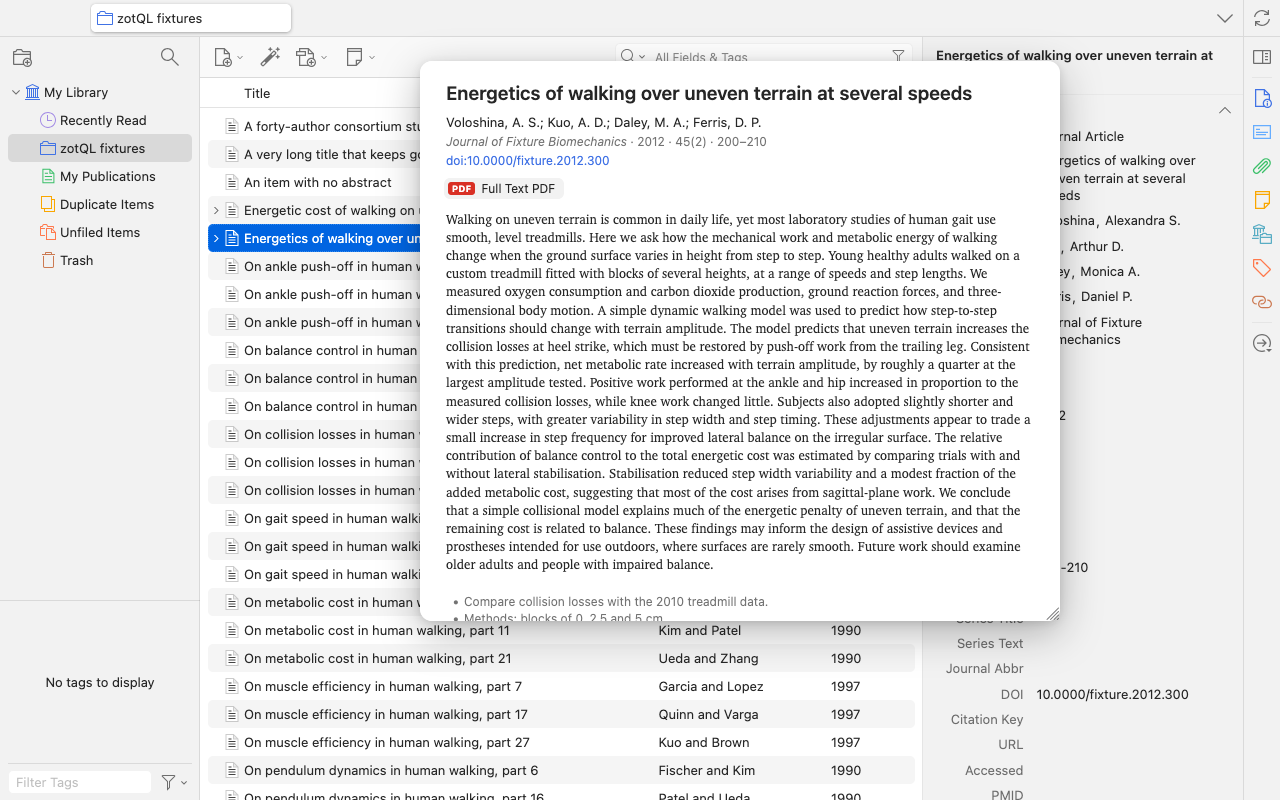
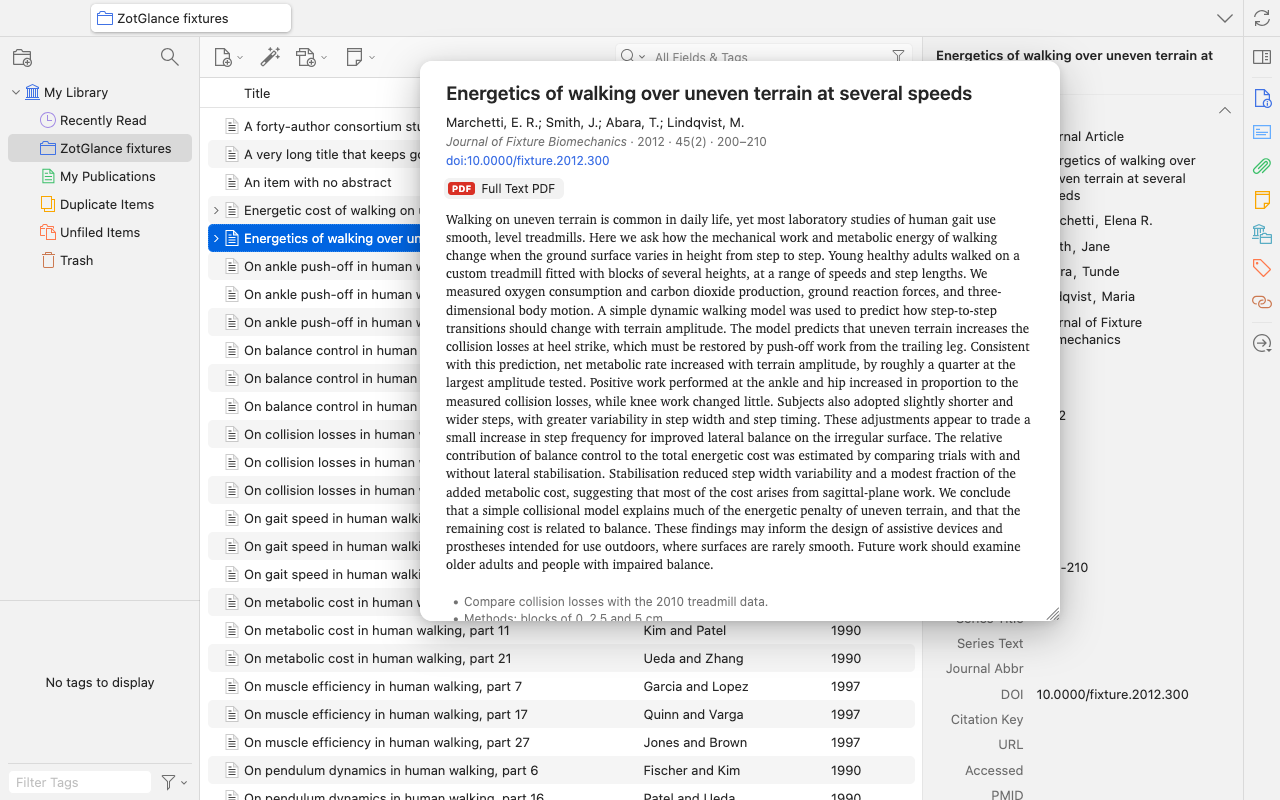
README edits, "At a Glance" card name, new screenshots
- README: the user's rewrite plus proofreading fixes; a "Keys and help"
  section; Zotero 10 requirement moved to Install; Prettier formatting.
- The card is called "At a Glance card" in the help card and Settings.
- Dev seed scripts use invented author names and a "ZotGlance fixtures"
  collection; docs/*.png retaken from it.

diff --git a/scripts/dev/seed.js b/scripts/dev/seed.js
@@ -1,10 +1,10 @@
 // Seed the DEV library with fixture items. Run with:
 //   scripts/zq-eval.sh < scripts/dev/seed.js
-// Idempotent: does nothing if the "zotQL fixtures" collection exists.
+// Idempotent: does nothing if the "ZotGlance fixtures" collection exists.
 // All content is invented test data.
 
 const LIB = Zotero.Libraries.userLibraryID;
-const COLL = "zotQL fixtures";
+const COLL = "ZotGlance fixtures";
 const existing = Zotero.Collections.getByLibrary(LIB).find(
   (c) => c.name === COLL,
 );
@@ -56,7 +56,7 @@ const ja = await make(
     url: "https://example.org/fixture/2010-001",
     abstractNote: lorem.repeat(6),
   },
-  [au("Kuo", "Arthur D."), au("Donelan", "J. Maxwell"), au("Smith", "Jane")],
+  [au("Smith", "Jane"), au("Okonkwo", "Daniel"), au("Lindqvist", "Maria")],
   {
     notes: [
       "<h1>Key result</h1><p>Uneven terrain costs about 28% more.</p>",
@@ -69,13 +69,13 @@ const ja = await make(
 made.push(ja.id);
 
 // 1b. A small PDF attachment and a link attachment on the journal article.
-const pdfPath = PathUtils.join(PathUtils.tempDir, "zotql-fixture.pdf");
+const pdfPath = PathUtils.join(PathUtils.tempDir, "zotglance-fixture.pdf");
 const pdf =
   "%PDF-1.4\n1 0 obj<</Type/Catalog/Pages 2 0 R>>endobj\n" +
   "2 0 obj<</Type/Pages/Kids[3 0 R]/Count 1>>endobj\n" +
   "3 0 obj<</Type/Page/Parent 2 0 R/MediaBox[0 0 612 792]/Contents 4 0 R" +
   "/Resources<</Font<</F1 5 0 R>>>>>>endobj\n" +
-  "4 0 obj<</Length 44>>stream\nBT /F1 24 Tf 72 700 Td (zotQL fixture) Tj ET\nendstream endobj\n" +
+  "4 0 obj<</Length 44>>stream\nBT /F1 24 Tf 72 700 Td (ZotGlance fixture) Tj ET\nendstream endobj\n" +
   "5 0 obj<</Type/Font/Subtype/Type1/BaseFont/Helvetica>>endobj\n" +
   "trailer<</Root 1 0 R>>\n%%EOF\n";
 await IOUtils.writeUTF8(pdfPath, pdf);
@@ -120,7 +120,7 @@ made.push(
         date: "2005",
         abstractNote: lorem.repeat(2),
       },
-      [au("Alexander", "R. McNeill")],
+      [au("Hartmann", "Paul")],
     )
   ).id,
 );
@@ -137,7 +137,7 @@ made.push(
         date: "2018",
         abstractNote: lorem.repeat(3),
       },
-      [au("Osman", "Kim")],
+      [au("Ferreira", "Lucas")],
     )
   ).id,
 );
@@ -155,7 +155,7 @@ made.push(
         DOI: "10.0000/fixture.preprint.1",
         abstractNote: lorem,
       },
-      [au("Seethapathi", "Nidhi"), au("Kuo", "Arthur D.")],
+      [au("Moreau", "Camille"), au("Smith", "Jane")],
     )
   ).id,
 );
@@ -226,10 +226,24 @@ const surnames = [
   "Xu",
   "Young",
   "Zhang",
-  "Kuo",
+  "Jones",
   "Smith",
   "Smithson",
   "Kumar",
+];
+const initials = [
+  "A.",
+  "B. K.",
+  "C.",
+  "D. M.",
+  "E.",
+  "F. R.",
+  "G.",
+  "H. L.",
+  "J.",
+  "K. S.",
+  "L.",
+  "M. T.",
 ];
 const topics = [
   "metabolic cost",
@@ -255,7 +269,13 @@ for (let i = 0; i < surnames.length; i++) {
           date: year,
           abstractNote: i % 3 ? lorem : "",
         },
-        [au(surnames[i], "X."), au(surnames[(i + 5) % surnames.length], "Y.")],
+        [
+          au(surnames[i], initials[i % initials.length]),
+          au(
+            surnames[(i + 5) % surnames.length],
+            initials[(i + 3) % initials.length],
+          ),
+        ],
       )
     ).id,
   );

diff --git a/scripts/dev/abstract300.js b/scripts/dev/abstract300.js
@@ -1,5 +1,5 @@
 // Adds a journal article with a 300-word abstract (invented text) to the
-// "zotQL fixtures" collection, to check that an average abstract fits the
+// "ZotGlance fixtures" collection, to check that an average abstract fits the
 // card. Run after seed.js: scripts/zq-eval.sh < scripts/dev/abstract300.js
 const sentences = [
   "Walking on uneven terrain is common in daily life, yet most laboratory studies of human gait use smooth, level treadmills.",
@@ -30,7 +30,7 @@ const text = words
   .replace(/[,;:.]*$/, ".");
 const LIB = Zotero.Libraries.userLibraryID;
 const coll = Zotero.Collections.getByLibrary(LIB).find(
-  (c) => c.name === "zotQL fixtures",
+  (c) => c.name === "ZotGlance fixtures",
 );
 let item = (await Zotero.Items.getAll(LIB)).find(
   (it) =>
@@ -53,10 +53,10 @@ if (!item) {
   item.setField("pages", "200-210");
   item.setField("DOI", "10.0000/fixture.2012.300");
   item.setCreators([
-    { lastName: "Voloshina", firstName: "Alexandra S.", creatorType: "author" },
-    { lastName: "Kuo", firstName: "Arthur D.", creatorType: "author" },
-    { lastName: "Daley", firstName: "Monica A.", creatorType: "author" },
-    { lastName: "Ferris", firstName: "Daniel P.", creatorType: "author" },
+    { lastName: "Marchetti", firstName: "Elena R.", creatorType: "author" },
+    { lastName: "Smith", firstName: "Jane", creatorType: "author" },
+    { lastName: "Abara", firstName: "Tunde", creatorType: "author" },
+    { lastName: "Lindqvist", firstName: "Maria", creatorType: "author" },
   ]);
   item.setField("abstractNote", text);
   item.addToCollection(coll.id);

diff --git a/src/modules/quickLook.ts b/src/modules/quickLook.ts
@@ -327,7 +327,7 @@ export class QuickLook {
     root.id = ROOT_ID;
     root.hidden = true;
     root.setAttribute("role", "dialog");
-    root.setAttribute("aria-label", "Quick Look");
+    root.setAttribute("aria-label", "At a Glance");
     // Keep keyboard focus in the items list when the card is clicked.
     // Except on the resize grip: preventDefault would stop the drag.
     root.addEventListener("mousedown", (e: MouseEvent) => {

diff --git a/src/modules/helpCard.ts b/src/modules/helpCard.ts
@@ -98,7 +98,7 @@ export class HelpCard {
     const grid = this.el("div", "zotglance-help-rows");
     root.appendChild(grid);
 
-    this.section(grid, "Quick Look card", [
+    this.section(grid, "At a Glance card", [
       ["Space", "open or close the card"],
       [cmdY ? "⌥Space  ⌘Y" : "⌥Space", "open or close it, even while typing"],
       ["↑  ↓", "move through the list; the card follows"],

diff --git a/PLAN.md b/PLAN.md
@@ -2,8 +2,8 @@
 
 A Zotero plugin that changes how the **items list behaves when it has keyboard focus**. It is not a search tool. It adds no search box or results window and doesn't touch Zotero's search bar. It only changes what keys do while you're in the list:
 
-1. **Quick Look card.** Press Space on the highlighted item to get a floating card centred over the panes. It shows the title, authors, journal, year and DOI, then the abstract in readable type, then clickable attachment icons and the first line of each child note. The card follows ↑/↓ and closes on Space, Esc or a click outside.
-2. **Better type-to-select** (phase 2). This replaces Zotero's built-in “type letters to jump to a row” in the list. Today that only matches the sorted column. The new version jumps to the next row where any matched column (by default the ones currently shown, usually title, creator and year; you can choose others in settings) matches what you typed, whatever the sort. The list itself is not filtered. A small indicator shows what you've typed, and while it's visible Space is a text space.
+1.  **Quick Look card.** Press Space on the highlighted item to get a floating card centred over the panes. It shows the title, authors, journal, year and DOI, then the abstract in readable type, then clickable attachment icons and the first line of each child note. The card follows ↑/↓ and closes on Space, Esc or a click outside.
+2.  **Better type-to-select** (phase 2). This replaces Zotero's built-in “type letters to jump to a row” in the list. Today that only matches the sorted column. The new version jumps to the next row where any matched column (by default the ones currently shown, usually title, creator and year; you can choose others in settings) matches what you typed, whatever the sort. The list itself is not filtered. A small indicator shows what you've typed, and while it's visible Space is a text space.
 
 Target: **Zotero 10.0.9** (installed), macOS first. The plugin will be open source (AGPL-3.0) on GitHub and submitted to Zotero's plugin list. The design follows the claude.ai chat this came from.
 
@@ -81,7 +81,7 @@ The listener is attached in capture phase to the main window's items tree (`#zot
 | ⌘↓              | pass through                        | open the first attachment (PDF first) in the reader, close the card | —                               |
 | ⌘G / ⇧⌘G        | —                                   | —                                                                   | next / previous match           |
 | letters, digits | built-in (phase 1) / ours (phase 2) | same, card follows                                                  | add to the typed text           |
-| + − ← →         | pass through                        | pass through                                                        | end typing, pass through        |
+| \+ − ← →        | pass through                        | pass through                                                        | end typing, pass through        |
 
 ⌥Space: check both `e.code === "Space"` and `e.altKey`, because on macOS `e.key` comes through as a non-breaking space (`" "`).
 
@@ -115,15 +115,21 @@ The listener is attached in capture phase to the main window's items tree (`#zot
 - **Which columns are matched:** by default the columns currently shown in the items list, read from the items tree's visible column list. A setting can replace that with a fixed set of columns.
   - Columns are matched by their **displayed text** (`itemsView.getCellText(i, column)`), split into words. So Year matches “2010” and Citation Key matches if that column is shown.
   - **Creator is the exception.** The column shows “Kuo et al.”, which would hide co-authors, so Creator matches every author's surname from `item.getCreators()`.
+
 - On the first keystroke, build an index of the **visible rows only**: `itemsView.rowCount` and `itemsView.getRow(i).ref`. For each row store a lowercase word list from the matched columns. Cache it per view. Invalidate the cache when the items view refreshes or `Zotero.Notifier` reports item changes. Measure the build time on your largest collection. If it's too slow, index lazily from the focused row.
+
 - **Matching:** split the typed text on spaces. Every token must be a **prefix of some word** in the row, so “kuo 2010” matches both. Move the selection to the next matching row below the focused one, wrapping at the end. Nothing is hidden or filtered.
+
 - **Tiered matching, so a space isn't required where letters meet digits.** Search the whole list with tier 1; fall back to tier 2 only if tier 1 matches no row. Stricter tiers win, so a looser reading never takes the jump from an exact one.
-  1. **As typed:** tokens split on spaces only. “h2o” still matches the title word “H2O”.
-  2. **Letter/digit split:** each token is also split where a letter meets a digit. “jones2006” becomes “jones” + “2006”, matching Jones in Creator and 2006 in Year. “kuo2010walk” becomes “kuo” + “2010” + “walk”.
+  1.  **As typed:** tokens split on spaces only. “h2o” still matches the title word “H2O”.
+  2.  **Letter/digit split:** each token is also split where a letter meets a digit. “jones2006” becomes “jones” + “2006”, matching Jones in Creator and 2006 in Year. “kuo2010walk” becomes “kuo” + “2010” + “walk”.
   - No general “any split” tier (“kuowalk” → “kuo” + “walk”). It was considered and left out because short pieces match almost every row. Revisit only if real use asks for it.
   - ⌘G and ⇧⌘G use the same tier that found the current match, so cycling stays consistent.
+
 - **Indicator:** a small pill at the bottom of the items pane reading `kuo 20▌`, plus a match count if it's cheap to compute. It hides 1.5 s after the last keystroke (a pref), or at once on Esc, Return or an arrow key.
+
 - Stop letters reaching the built-in `_handleTyping`, so the old and new type-to-select never run together. Ideally the plugin calls `stopPropagation()` on every printable key while the items tree has focus.
+
 - **Failure case to accept:** you type “smith”, pause past the timeout, then press Space meaning “smith j”, and the card opens instead. The visible indicator and the longer 1.5 s timeout make this rare, and pressing Space again closes the card.
 
 ### Prefs (phase 3, in a Settings pane)
@@ -143,10 +149,10 @@ Phase 2 type-to-select on/off (fall back to the built-in one), which columns to 
 
 **M1 — spike: confirm the four assumptions before building UI**
 
-1. A capture-phase listener on the items tree sees Space before the React handler, and `preventDefault` plus `stopPropagation` stop the built-in selection toggle.
-2. The right selection-changed hook in Zotero 10.
-3. An absolutely positioned overlay in the main window sits above the items and item panes, doesn't take focus, and is ignored by OmniWM.
-4. Spotlight's resolved default shortcuts use neither Space nor ⌘Y.
+1.  A capture-phase listener on the items tree sees Space before the React handler, and `preventDefault` plus `stopPropagation` stop the built-in selection toggle.
+2.  The right selection-changed hook in Zotero 10.
+3.  An absolutely positioned overlay in the main window sits above the items and item panes, doesn't take focus, and is ignored by OmniWM.
+4.  Spotlight's resolved default shortcuts use neither Space nor ⌘Y.
 
 The result is a throwaway “Space logs the focused item title” build. Record what you find in `NOTES.md`.
 

diff --git a/README.md b/README.md
@@ -1,21 +1,15 @@
 # ZotGlance
 
-A Zotero plugin that makes the items list nicer to use from the keyboard.
+A Zotero plugin for keyboard users: press Space for an at-a-glance card of an item's title, authors, journal and abstract, or type to jump to any item.
 
-- **Quick Look:** press **Space** on an item to see its details in a card over the list, much as Space shows a preview in macOS Finder. Press Space again (or Esc) to close it.
-- **Better type-to-select:** start typing to jump to an item. ZotGlance matches every column shown in the list, and every author, not just the column the list is sorted by. Type `kuo 2010`, or just `kuo2010`, to jump to Kuo's 2010 paper.
+- **At a Glance:** press **Space** on an item to see its main details in a card over the list, much as Space shows a preview in macOS Finder. Press Space again (or Esc) to close it.
+- **Better type-to-select:** start typing to jump to an item. ZotGlance matches every column shown in the list, and every author, not just the column the list is sorted by. Type `smith 2010`, or just `smith2010`, to jump to Smith's 2010 paper.
 
-Press **?** in the items list for a card listing all the keys.
+![The At a Glance card open over the items list](docs/card.png)
 
-![The ? help card](docs/help.png)
+![Better type-to-select: "smith 20" jumps to Smith's 2010 paper](docs/type-to-select.png)
 
-ZotGlance only changes how keys behave while the items list has focus. It doesn't filter or search your library, and it never changes your items.
-
-Requires **Zotero 10**. Developed and tested on macOS.
-
-![The Quick Look card open over the items list](docs/card.png)
-
-## Quick Look card
+## At a Glance card
 
 Select an item and press **Space**. The card shows:
 
@@ -43,11 +37,9 @@ Drag the card's bottom-right corner to resize it. ZotGlance remembers the size.
 
 ## Type-to-select
 
-With the items list focused, type part of a title, an author's surname or a year. The list jumps to the first match, starting from the selected item, and a small indicator at the bottom shows what you typed and how many items match.
+In the items list, type part of a title, an author's surname, or a year to jump to an item. Zotero's own type-to-select only matches the column the list is sorted by; ZotGlance matches every shown column (you can switch back to Zotero's in Settings). The list jumps to the first match from the selected item, and a small indicator at the bottom shows what you typed and how many items match.
 
-![Typing "kuo 20" jumps to Kuo's 2010 paper](docs/type-to-select.png)
-
-- Words can match in any column and in any order: `walking kuo` and `kuo walking` both work.
+- Words can match in any column and in any order: `walking smith` and `smith walking` both work.
 - Each word you type matches the start of a word: `walk` matches "walking", `alk` doesn't.
 - Every author counts, not only the first one shown in the Creator column.
 - You don't need a space between letters and numbers: `jones2006` finds Jones in Creator and 2006 in Year. ZotGlance tries what you typed as-is first, so `h2o` still finds "H2O".
@@ -57,6 +49,14 @@ With the items list focused, type part of a title, an author's surname or a year
 - Typing starts with a letter or digit. Punctuation typed first doesn't start it: `?` shows the keys, and `+` and `-` still expand and collapse all rows, as in Zotero.
 
 Nothing is hidden or filtered; the selection just moves.
+
+## Keys and help
+
+Press **?** in the items list for a card listing all the keys.
+
+![The ? help card](docs/help.png)
+
+ZotGlance only changes how keys behave while the items list has focus. It doesn't filter or search your library, and it never changes your items.
 
 ## Settings
 
@@ -73,9 +73,11 @@ In Zotero's Settings, under **ZotGlance**:
 
 ## Install
 
-1. Download `zot-glance.xpi` from the [latest release](https://github.com/artkuo/ZotGlance/releases/latest).
-2. In Zotero, open **Tools → Plugins**, click the gear menu, and choose **Install Plugin From File…**.
-3. Pick the downloaded file.
+Requires **Zotero 10**. Developed and tested on macOS.
+
+1.  Download `zot-glance.xpi` from the [latest release](https://github.com/artkuo/ZotGlance/releases/latest).
+2.  In Zotero, open **Tools → Plugins**, click the gear menu, and choose **Install Plugin From File…**.
+3.  Pick the downloaded file.
 
 Zotero checks for updates to ZotGlance automatically.
 

diff --git a/HANDOFF.md b/HANDOFF.md
@@ -117,6 +117,6 @@ The user tested M4 in their real Zotero ("works very well") and asked for abstra
 ## Update 2026-11-24: renamed to ZotGlance
 
 - New identity: addonName `ZotGlance`, ID `zotglance@artkuo.dev`, ref `zotglance`, instance `Zotero.ZotGlance`, prefs `extensions.zotero.zotglance.*`, file `zot-glance.xpi`, repo `artkuo/ZotGlance`. CSS ids and classes are `zotglance-*`.
-- Kept on purpose (dev-only or local): the env vars `ZOTQL_DEV_PORT`/`ZOTQL_DEV_TOKEN`, the dev profile `~/Zotero-dev/zotql`, the local checkout folder `zotQL`, `../zotQL-worktrees`, and the "zotQL fixtures" test collection.
+- Kept on purpose (dev-only or local): the env vars `ZOTQL_DEV_PORT`/`ZOTQL_DEV_TOKEN`, the dev profile `~/Zotero-dev/zotql`, the local checkout folder `zotQL` and `../zotQL-worktrees`. The dev test collection is now "ZotGlance fixtures", with invented author names (no real people).
 - `tasks/` and `test/` were not touched; the old task specs are history.
 - The user's real Zotero has the hand-installed zotQL (`zotql@artkuo.dev`). It must be removed before installing ZotGlance, or both take Space.
